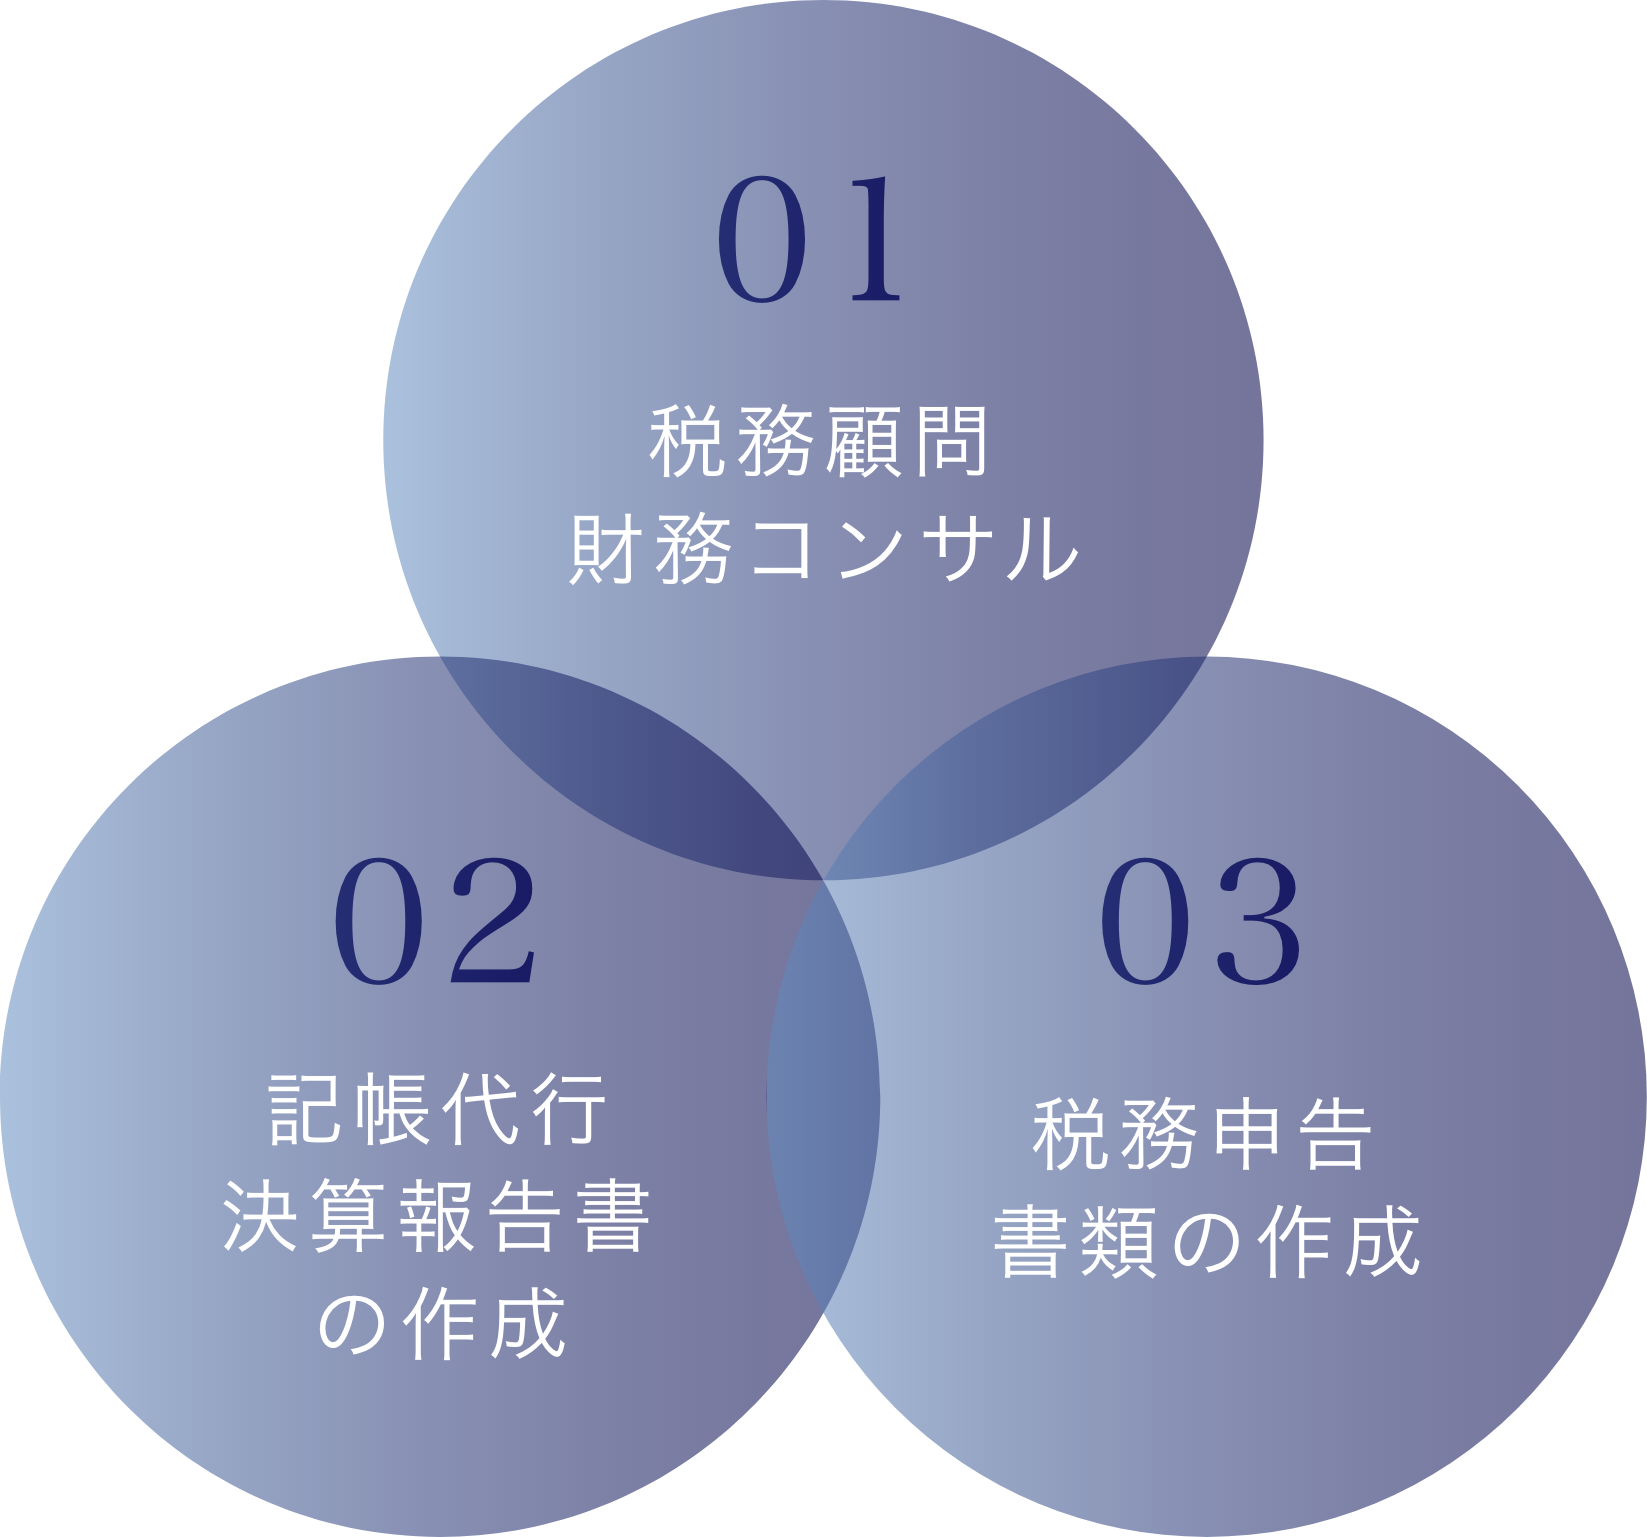
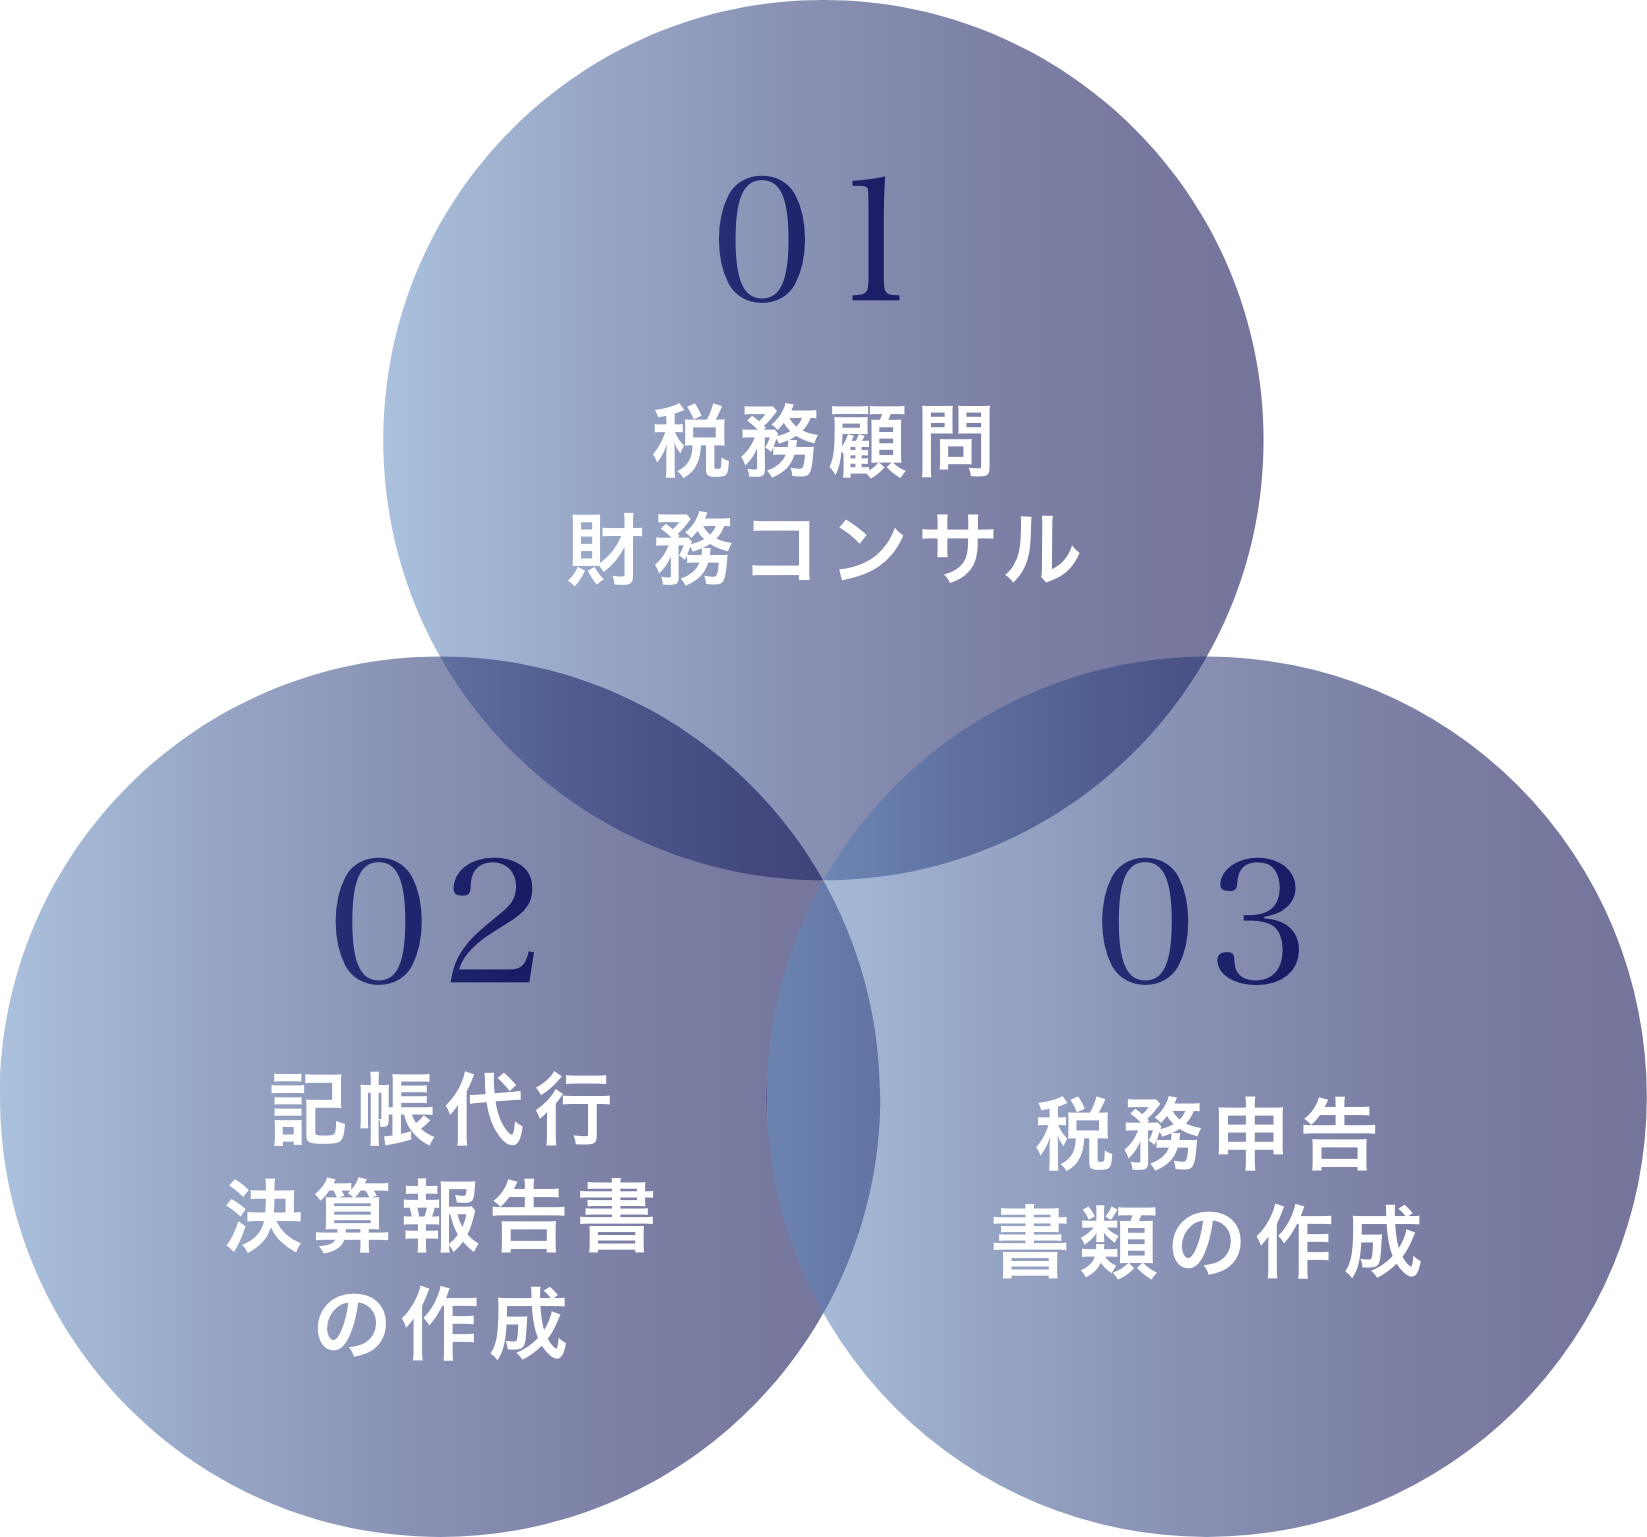
フォントサイズ修正、画像書き出し直し

diff --git a/index.html b/index.html
@@ -141,7 +141,7 @@
                 <p>当社には、大手監査法人出身の公認会計士や、東証プライム上場企業の財務部門でマネージャーを務めた経験を持つスペシャリストが多数在籍しています。高い専門知識と豊富な実務経験を活かし、複雑かつ高度な経営課題にも対応できる体制を整えています。</p>
               </div>
               <div class="service__img">
-                <img src="./assets/image/service_img.webp" alt="01税務顧問財務コンサル記帳代行,02決算報告書の作成,03税務申告書類の作成" width="1647" height="1537">
+                <img src="./assets/image/service_img.png" alt="01税務顧問財務コンサル記帳代行,02決算報告書の作成,03税務申告書類の作成" width="1647" height="1537">
               </div>
             </div>
 

diff --git a/assets/css/style.css b/assets/css/style.css
@@ -320,6 +320,7 @@ main {
   color: #1b1464;
   font-size: clamp(0.975rem, 2.03125vw, 2.4375rem);
   text-align: center;
+  font-weight: bold;
 }
 @media screen and (max-width:767px) {
   .section__sub-title-text {

diff --git a/assets/sass/object/project/_main.scss b/assets/sass/object/project/_main.scss
@@ -350,6 +350,7 @@ main {
   color: #1b1464;
   font-size: rclamp(39, 1920);
   text-align: center;
+  font-weight: bold;
 
   @include m.mq(sp) {
     font-size: vw-sp(16);
